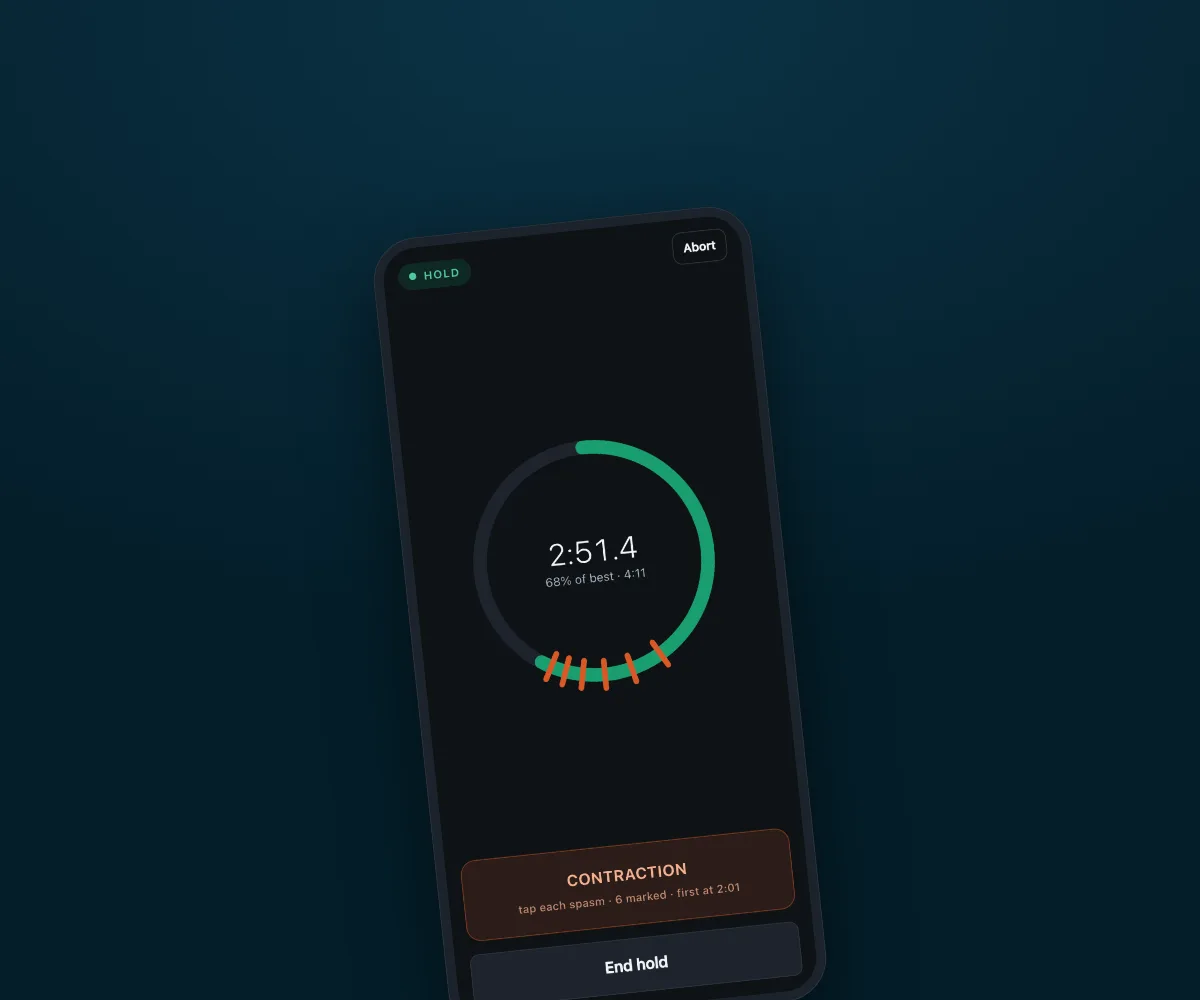
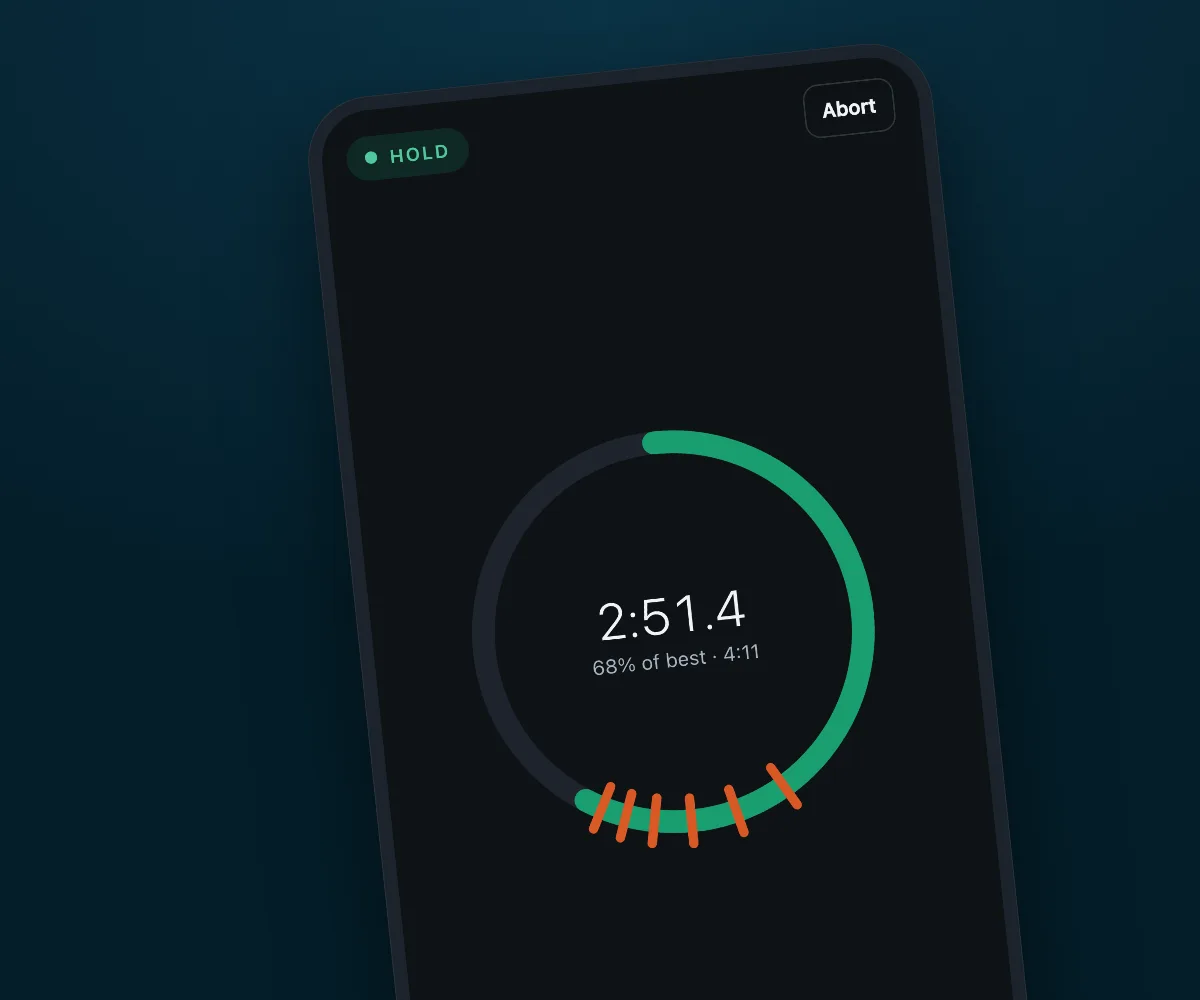
Home: zoom in on the Apnea and IKEA guesser card screenshots

diff --git a/index.html b/index.html
@@ -169,14 +169,14 @@
                 </div>
             </a>
             <a id="apnea" href="./apnea.html" class="cell">
-                <img src="./assets/apnea-card.webp" alt="Apnea app during a max hold, with contraction marks on the timer ring">
+                <img src="./assets/apnea-card.webp?v=2" alt="Apnea app during a max hold, with contraction marks on the timer ring">
                 <div class="cell-content">
                     <h6>Apnea</h6>
                     <p data-i18n="apneaDesc"></p>
                 </div>
             </a>
             <a id="ikeaguesser" href="./ikeaguesser/" class="cell">
-                <img src="./assets/ikeaguesser-card.webp" alt="IKEA guesser quiz asking what KALLAX is, with four illustrated answers">
+                <img src="./assets/ikeaguesser-card.webp?v=2" alt="IKEA guesser quiz asking what KALLAX is, with four illustrated answers">
                 <div class="cell-content">
                     <h6>IKEA guesser</h6>
                     <p data-i18n="ikeaDesc"></p>
